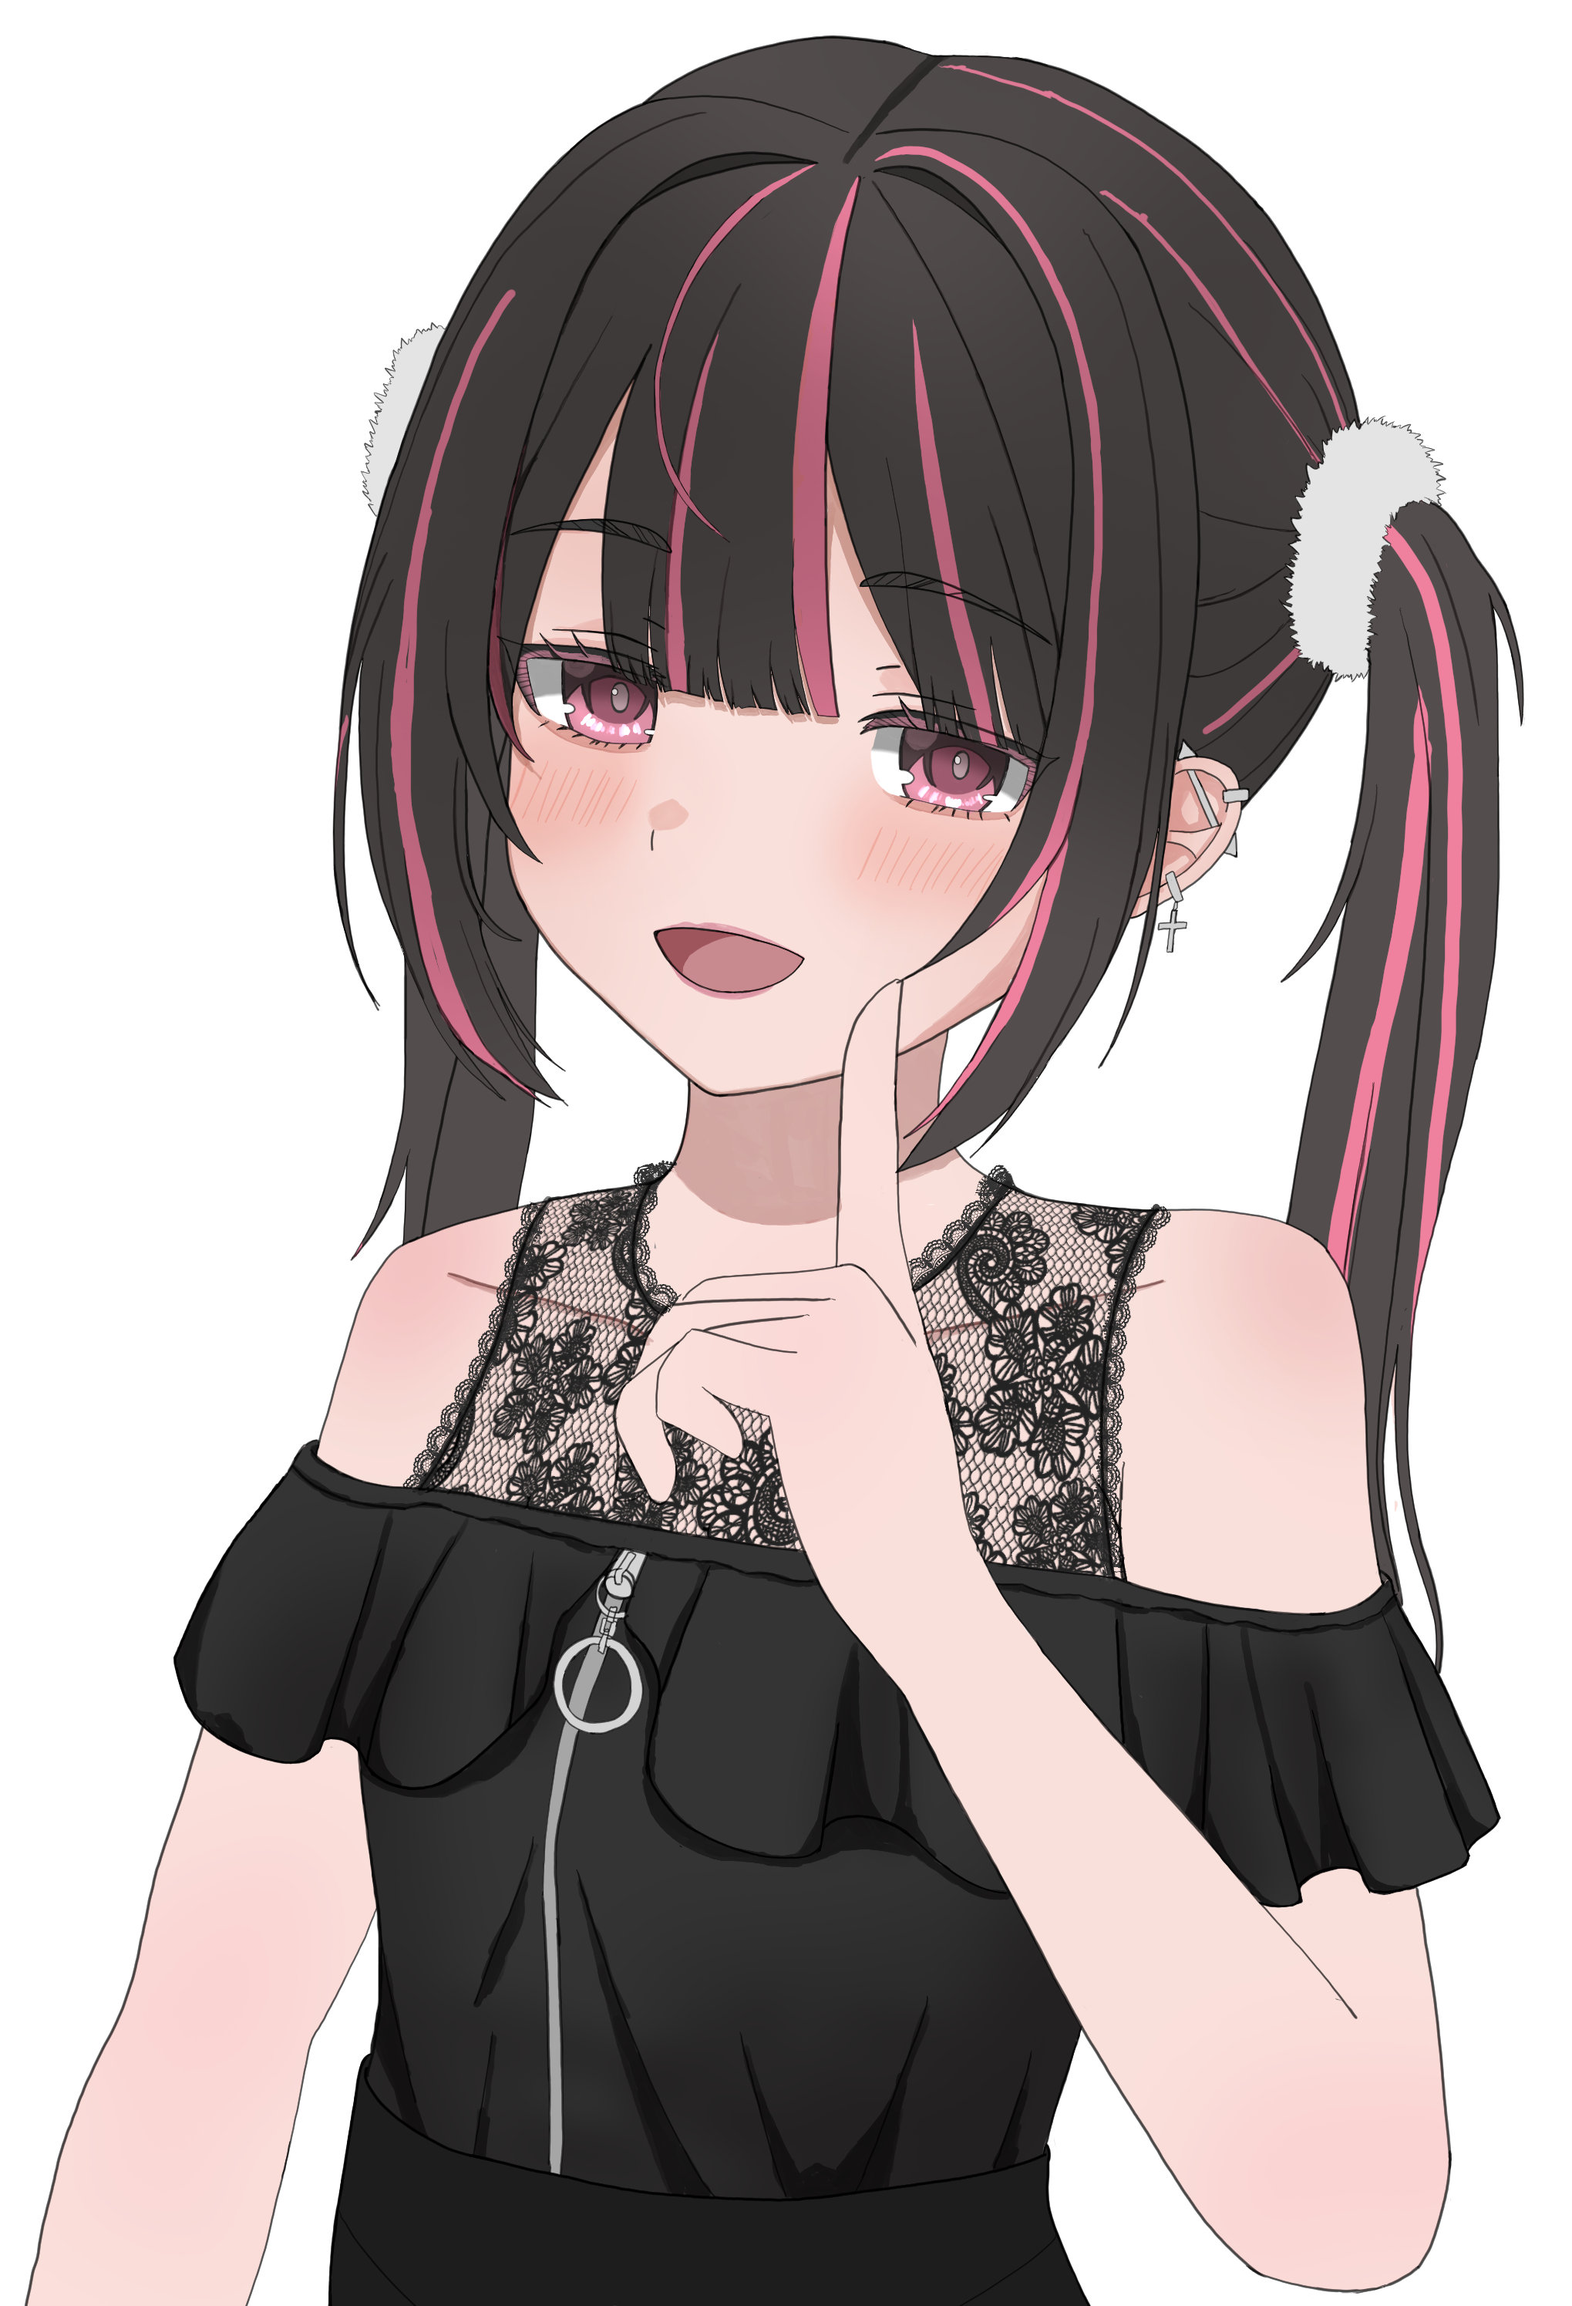
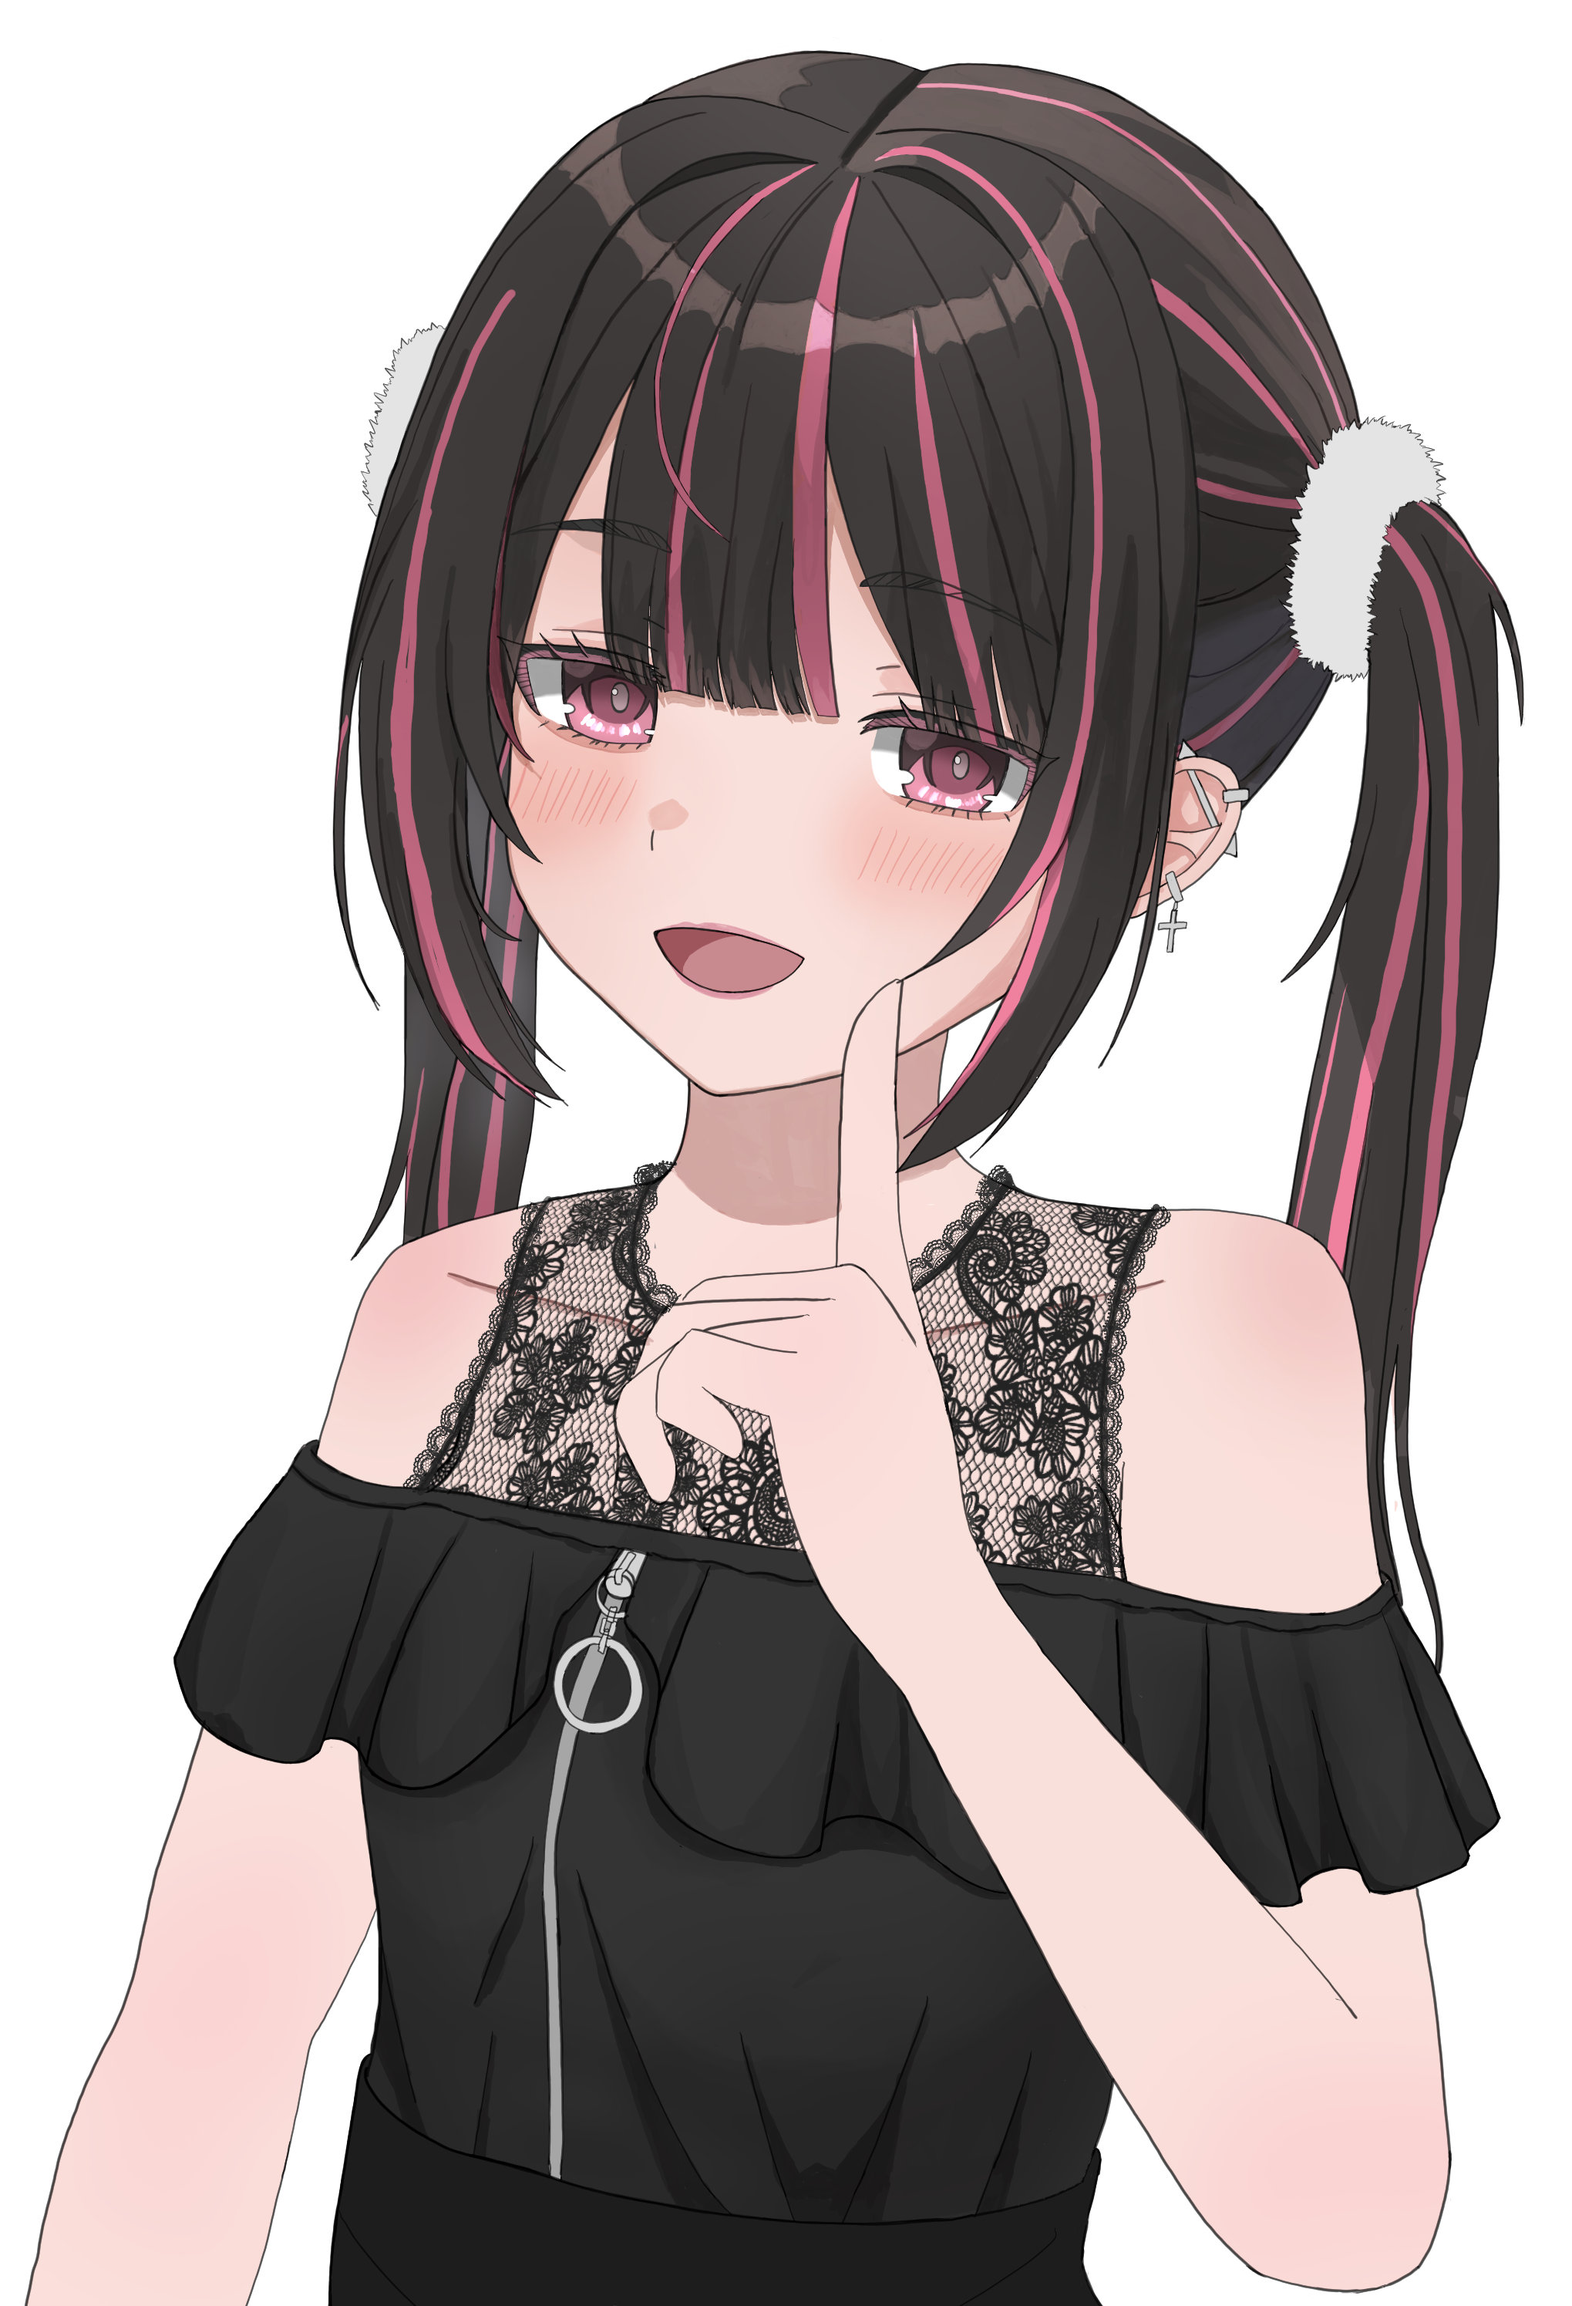
update commission

diff --git a/html/price.html b/html/price.html
@@ -242,11 +242,11 @@
                             target="_blank">
                             <img src="../images/commission_example/pose1c.jpg" alt="Image 4"></a></div>
                         <div class="slide">
-                            <a href="../images/commission_example/d07.png"
-                            data-pswp-width="7016" 
-                            data-pswp-height="4961" 
+                            <a href="../images/drawings/d22.png"
+                            data-pswp-width="3840" 
+                            data-pswp-height="2160" 
                             target="_blank">
-                            <img src="../images/commission_example/d07.png" alt="Image 5"></a></div>
+                            <img src="../images/drawings/d22.png" alt="Image 5"></a></div>
                         <div class="slide">
                             <a href="../images/commission_example/d14.png"
                             data-pswp-width="1080" 
@@ -258,7 +258,7 @@
                 </div>
                 <div class="thumbnails">
                     <img class="thumbnail active" src="../images/commission_example/pose1c.jpg" alt="Thumbnail 4" onclick="currentSlide('sliderCA', 0)">
-                    <img class="thumbnail" src="../images/commission_example/d07.png" alt="Thumbnail 5" onclick="currentSlide('sliderCA', 1)">
+                    <img class="thumbnail" src="../images/drawings/d22.png" alt="Thumbnail 5" onclick="currentSlide('sliderCA', 1)">
                     <img class="thumbnail" src="../images/commission_example/d14.png" alt="Thumbnail 6" onclick="currentSlide('sliderCA', 2)">
                 </div>
             </div>
